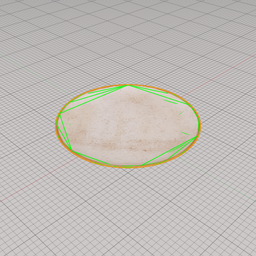
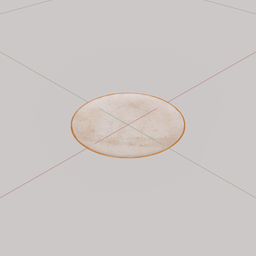
pull plate textures from nvidia neuclus

diff --git a/envs/franka_table/env_cfg/franka_table_env_cfg.py b/envs/franka_table/env_cfg/franka_table_env_cfg.py
@@ -28,7 +28,7 @@ from omni.isaac.orbit.sim.spawners.from_files.from_files_cfg import (
     UsdFileCfg,
 )
 from omni.isaac.orbit.utils import configclass
-from omni.isaac.orbit.utils.assets import ISAAC_NUCLEUS_DIR
+from omni.isaac.orbit.utils.assets import ISAAC_NUCLEUS_DIR, NVIDIA_NUCLEUS_DIR
 from omni.isaac.orbit.assets import ArticulationCfg, AssetBaseCfg
 from omni.isaac.orbit.sim.schemas.schemas_cfg import (
     RigidBodyPropertiesCfg,
@@ -56,7 +56,7 @@ if TYPE_CHECKING:
 
 from envs.franka_table import mdp
 
-# from .utils import my_spawn_from_usd
+from ..utils import MyUsdFileCfg
 
 ##
 # Scene definition
@@ -176,12 +176,12 @@ class ObjectTableSceneCfg(InteractiveSceneCfg):
         init_state=RigidObjectCfg.InitialStateCfg(
             pos=[0.5, 0, 0.055], rot=[1, 0, 0, 0]
         ),
-        spawn=UsdFileCfg(
+        spawn=MyUsdFileCfg(
             usd_path=f"{ZEROHERO_ROOT_DIR}/envs/franka_table/assets/plate.usd",
             scale=(
-                0.65e-2,
-                0.65e-2,
-                0.65e-2,
+                0.65,
+                0.65,
+                0.65,
             ),
             rigid_props=RigidBodyPropertiesCfg(
                 solver_position_iteration_count=16,

diff --git a/rsl_rl/play.py b/rsl_rl/play.py
@@ -139,7 +139,7 @@ def main():
             "video_length": args_cli.video_length,
             "disable_logger": True,
         }
-        print("[INFO] Recording videos during training.")
+        print("[INFO] Recording videos during playing.")
         env = gym.wrappers.RecordVideo(env, **video_kwargs)
 
     # wrap around environment for rsl-rl
@@ -166,6 +166,7 @@ def main():
     steps = 0
     # reset environment
     obs, _ = env.get_observations()
+    print("[INFO]: reset env. Start simulating next step.")
     # simulate environment
     while simulation_app.is_running():
         # run everything in inference mode
@@ -187,8 +188,11 @@ if __name__ == "__main__":
         # run the main execution
         main()
     except Exception as err:
+        err_ = traceback.format_exc()
         carb.log_error(err)
-        carb.log_error(traceback.format_exc())
+        carb.log_error(err_)
+        print(err)
+        print(err_)
         raise
     finally:
         # close sim app

diff --git a/envs/franka_table/utils.py b/envs/franka_table/utils.py
@@ -9,6 +9,7 @@ from omni.isaac.orbit.sim.utils import (
     clone,
 )
 from omni.isaac.orbit.utils.assets import check_file_path
+from omni.isaac.orbit.sim.spawners.from_files.from_files_cfg import UsdFileCfg
 
 
 def _my_spawn_from_usd_file(
@@ -73,3 +74,7 @@ def my_spawn_from_usd(
     return _my_spawn_from_usd_file(
         prim_path, cfg.usd_path, cfg, translation, orientation
     )
+
+
+class MyUsdFileCfg(UsdFileCfg):
+    func = my_spawn_from_usd

diff --git a/zero_hero/core.py b/zero_hero/core.py
@@ -602,7 +602,7 @@ class RewardNode(Node):
         return
 
     def _block_until_play_recorded(self):
-        self.play_run.communicate(timeout=600 * 10)
+        self.play_run.communicate(timeout=60*60*1)
         pattern = r".*(Loading model checkpoint from.*)"
         play_log = file_to_string(self.play_filepath)
         model_path_reg = re.search(pattern=pattern, string=play_log)
